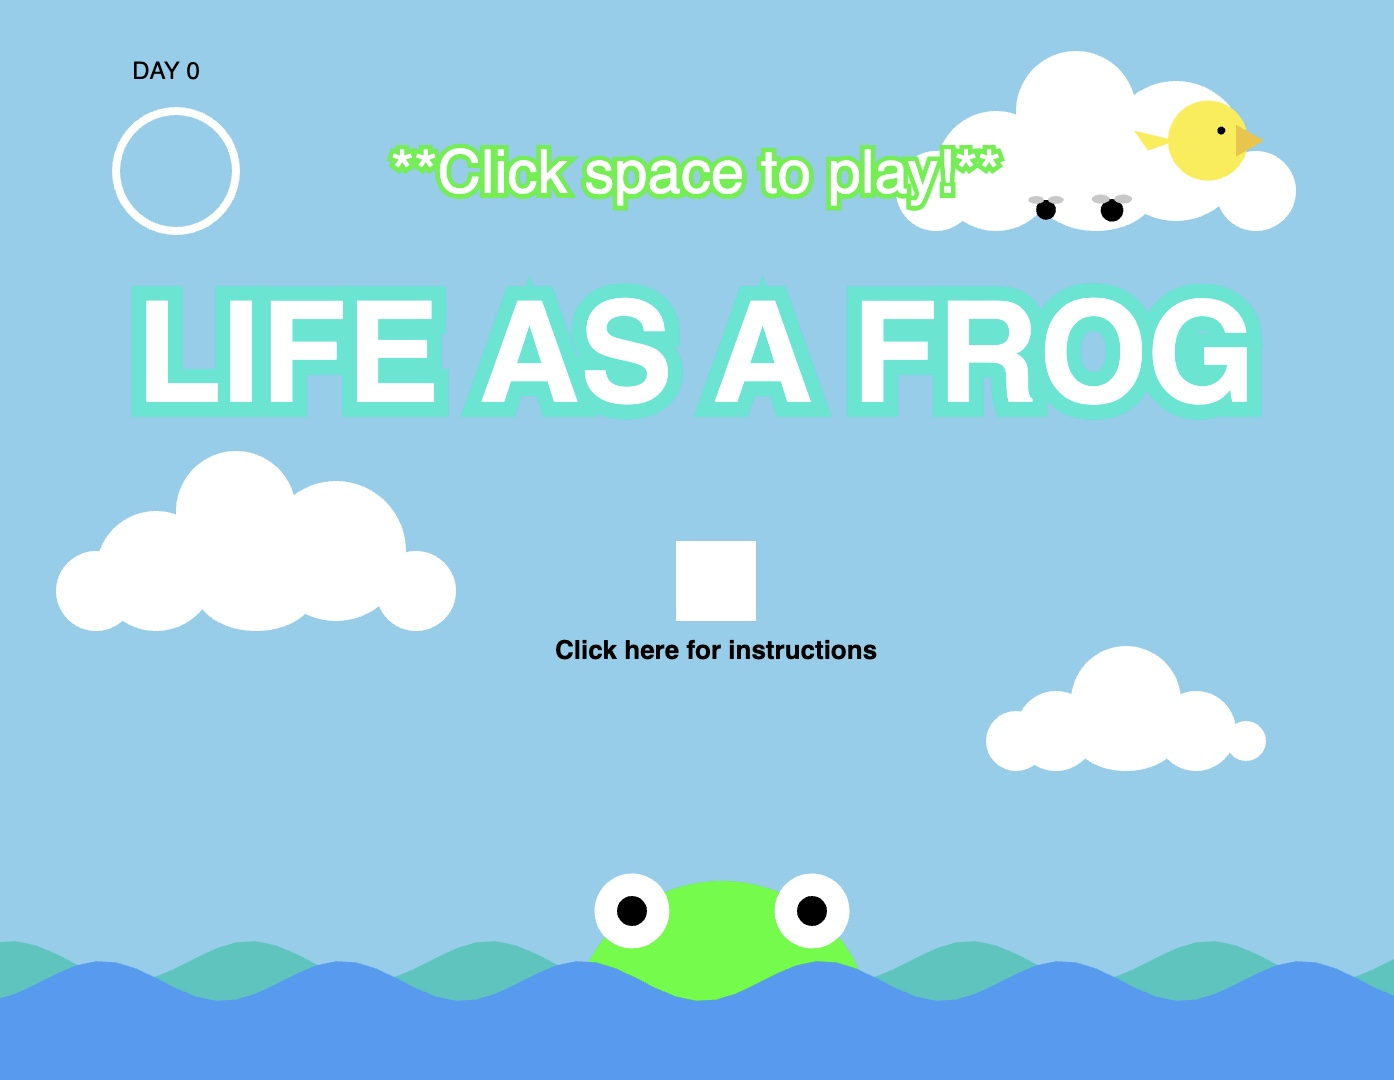
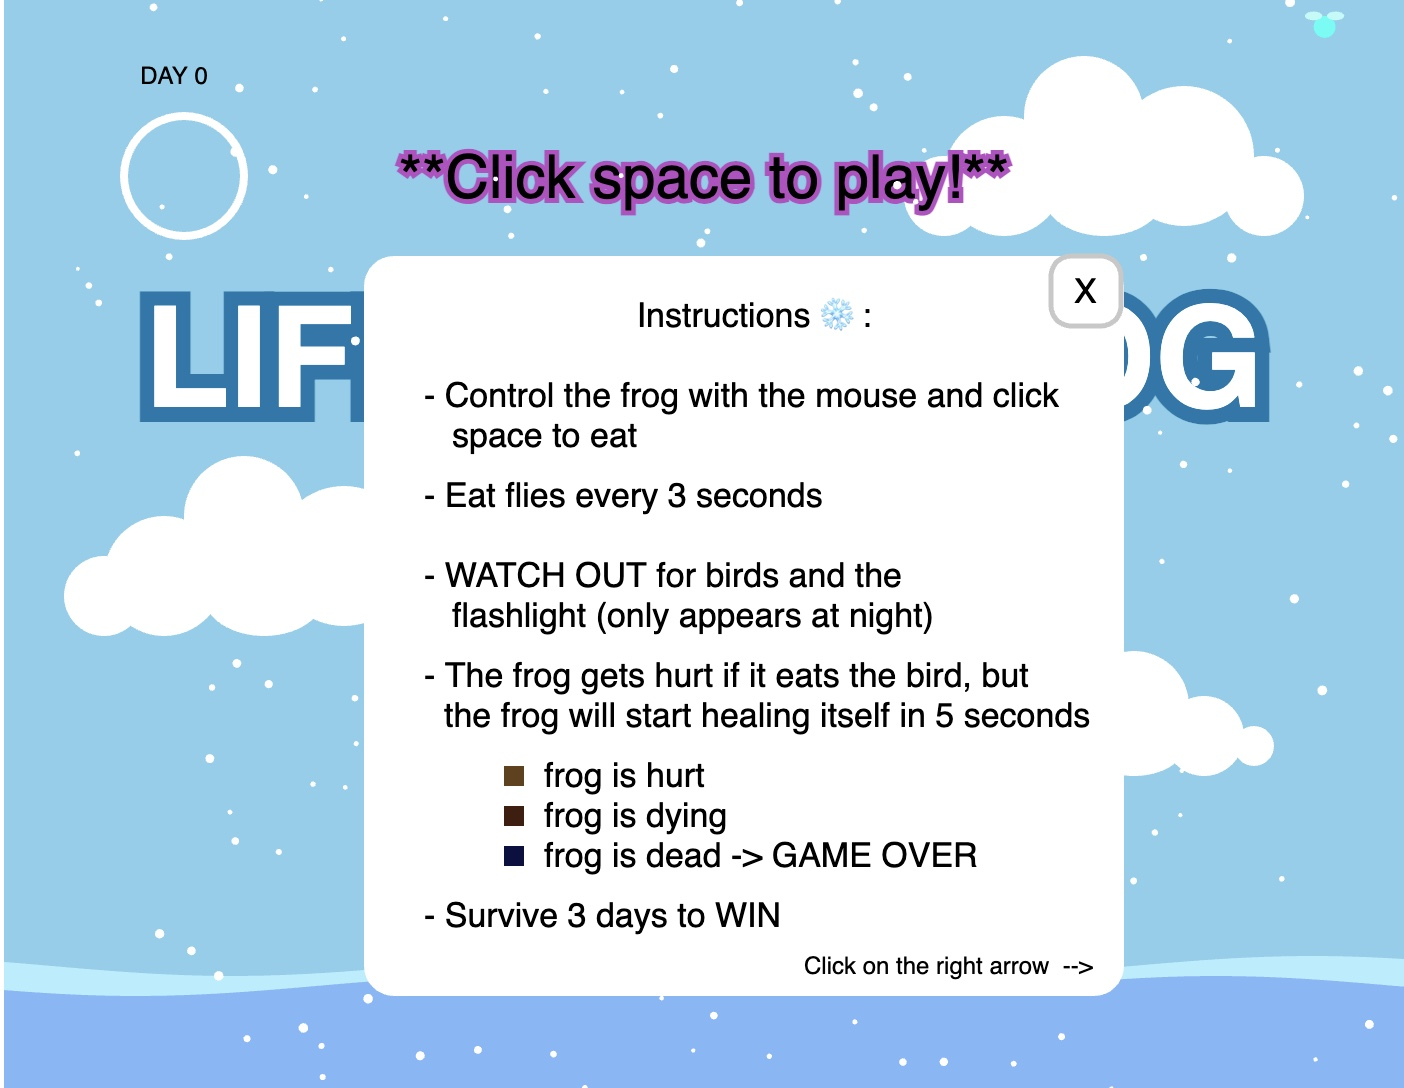
edited read.me
I edited read.me to describe the modifications and added images

diff --git a/topics/variation-jam-winter/index.html b/topics/variation-jam-winter/index.html
@@ -5,7 +5,7 @@
   <meta charset="utf-8">
   <meta name="viewport" width=device-width, initial-scale=1.0, maximum-scale=1.0, user-scalable=0>
 
-  <title>Variation-Jam: Life as a Frog</title>
+  <title>Variation Jam : Life as a Frog (Winter Edition)</title>
 
   <!-- CSS stylesheet(s) -->
   <link rel="stylesheet" type="text/css" href="css/style.css" />

diff --git a/topics/variation-jam-winter/js/script.js b/topics/variation-jam-winter/js/script.js
@@ -1,5 +1,5 @@
 /**
- * Variation Jam : Life as a Frog
+ * Variation Jam : Life as a Frog (Winter Edition)
  * Yaxuan Pang
  * 
  * A game of catching flies with the frog's tongue. 

diff --git a/topics/variation-jam-winter/README.md b/topics/variation-jam-winter/README.md
@@ -1,8 +1,16 @@
-# Mod-Jam: Life as a Frog
+# Variation Jam : Life as a Frog (Winter Edition)
 
 Yaxuan Pang
 
-[View this project online](https://yaxuanpang.github.io/cart253/topics/mod-jam/)
+[View this project online](https://yaxuanpang.github.io/cart253/topics/variation-jam-winter/)
+
+[View original variation](https://yaxuanpang.github.io/cart253/topics/variation-jam-original/)
+
+[View spring variation](https://yaxuanpang.github.io/cart253/topics/variation-jam-spring/)
+
+[View summer variation](https://yaxuanpang.github.io/cart253/topics/variation-jam-summer/)
+
+[View fall variation](https://yaxuanpang.github.io/cart253/topics/variation-jam-autumn/)
 
 ## Description
 
@@ -10,6 +18,7 @@ Life of a Frog is a game about catching flies with the frog's tongue. It portray
 
 There are 5 different game mode, original, spring, summer fall and winter. Each mode will give a different experience and add different challenges to the game.
 
+This is the winter variation! Keep diving underwater to stay warm and to not freeze to death. Eat flies, avoid bird and avoid the flashlight.
 
 > Move the frog some side to side with the mouse and click space to launch the tongue.
 
@@ -19,17 +28,40 @@ There are 5 different game mode, original, spring, summer fall and winter. Each 
 
 > At night, a flashlight will appear. If the flashlight overlaps with the frog, it dies.
 
+> There is a cooldown of 10 seconds before the frog can dive underwater again
+
+## Modifications
+
+> Changed the colors to a winter color palette
+
+> Added a title screen with instructions (2 pages)
+
+> Changed the wave shape
+
+> Removed all birds except for one
+
+> Kept 2 flies and changed their color to bright blue
+
+> Added a new movement for the frog
+
+> Cooldown period
+
+> Added snow
+
 ## Screenshot(s)
 
+> ![Image of my game](./assets/images/image1.jpg)
 > ![Image of my game](./assets/images/image2.jpg)
 > ![Image of my game](./assets/images/image3.jpg)
-> ![Image of my game](./assets/images/image1.jpg)
+> ![Image of my game](./assets/images/image4.jpg)
+> ![Image of my game](./assets/images/image5.jpg)
 
 ## Attribution
 
 > - This project uses [p5.js](https://p5js.org).
 > - This projects uses the code from the variables challenge (https://concordia.yuja.com/V/Video?v=1071104&node=5700521&a=117175823)
-> - This projects uses the code from the conditionals challenge (https://yaxuanpang.github.io/cart253/topics/conditionals-challenge/).
+> - This projects uses the code from the conditionals challenge (https://yaxuanpang.github.io/cart253/topics/conditionals-challenge/)
+> - This projects uses the code from (https://editor.p5js.org/TheCurlyPasta/sketches/HkbMtLNJV) for the snowflakes.
 
 ## License
 

diff --git a/topics/variation-jam-autumn/README.md b/topics/variation-jam-autumn/README.md
@@ -2,7 +2,15 @@
 
 Yaxuan Pang
 
-[View this project online](https://yaxuanpang.github.io/cart253/topics/mod-jam/)
+[View this project online](https://yaxuanpang.github.io/cart253/topics/variation-jam-autumn/)
+
+[View original variation](https://yaxuanpang.github.io/cart253/topics/variation-jam-original/)
+
+[View spring variation](https://yaxuanpang.github.io/cart253/topics/variation-jam-spring/)
+
+[View summer variation](https://yaxuanpang.github.io/cart253/topics/variation-jam-summer/)
+
+[View winter variation](https://yaxuanpang.github.io/cart253/topics/variation-jam-winter/)
 
 ## Description
 
@@ -20,6 +28,20 @@ This is the fall variation! Eat flies and avoid the birds. Hide underwater to he
 >  There is a night and day cycle with a ring in the top left corner that tracks the number of days the frog survives. It makes a full rotation after one full day and updates the number of days the frog has lived. 
 
 > At night, flashlights will appear. If the flashlight overlaps with the frog twice in one night, it dies.
+
+## Modifications
+
+> Changed the colors to a fall color palette
+
+> Added a title screen with instructions(3 pages)
+
+> Added a new movement for the frog
+
+> Added a new bird (blue bird)
+
+> Removed flies and removed a bird
+
+> Added leaves that fall from the sky
 
 ## Screenshot(s)
 

diff --git a/topics/variation-jam-original/README.md b/topics/variation-jam-original/README.md
@@ -20,6 +20,8 @@ Life of a Frog is a game about catching flies with the frog's tongue. It portray
 
 There are 5 different game mode, original, spring, summer fall and winter. Each mode will give a different experience and add different challenges to the game.
 
+This is the original variation! Eat flies while avoiding the birds and the flashlight. 
+
 
 > Move the frog some side to side with the mouse and click space to launch the tongue.
 
